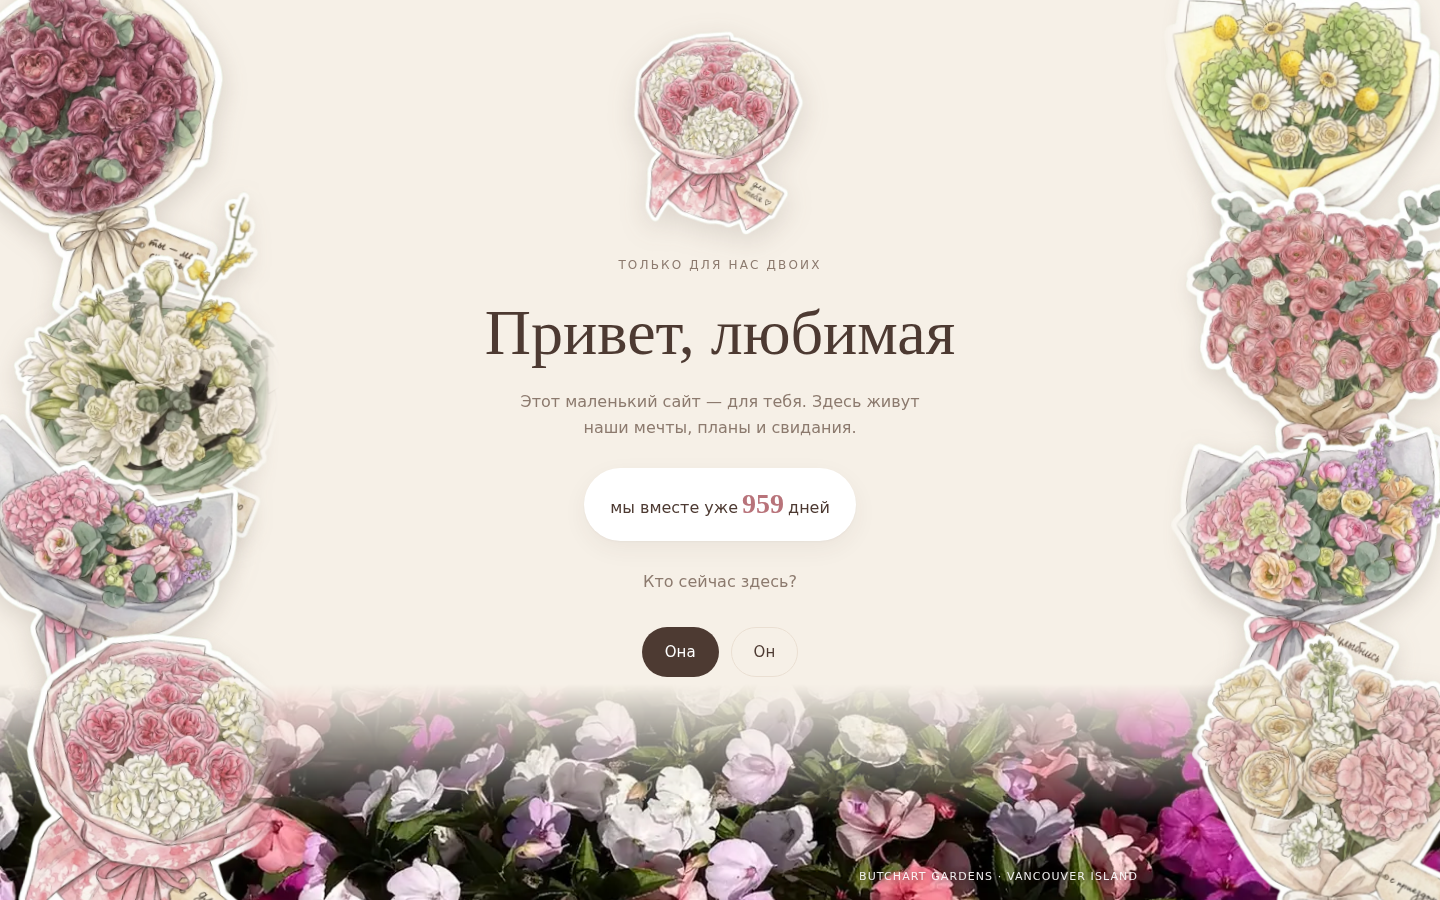
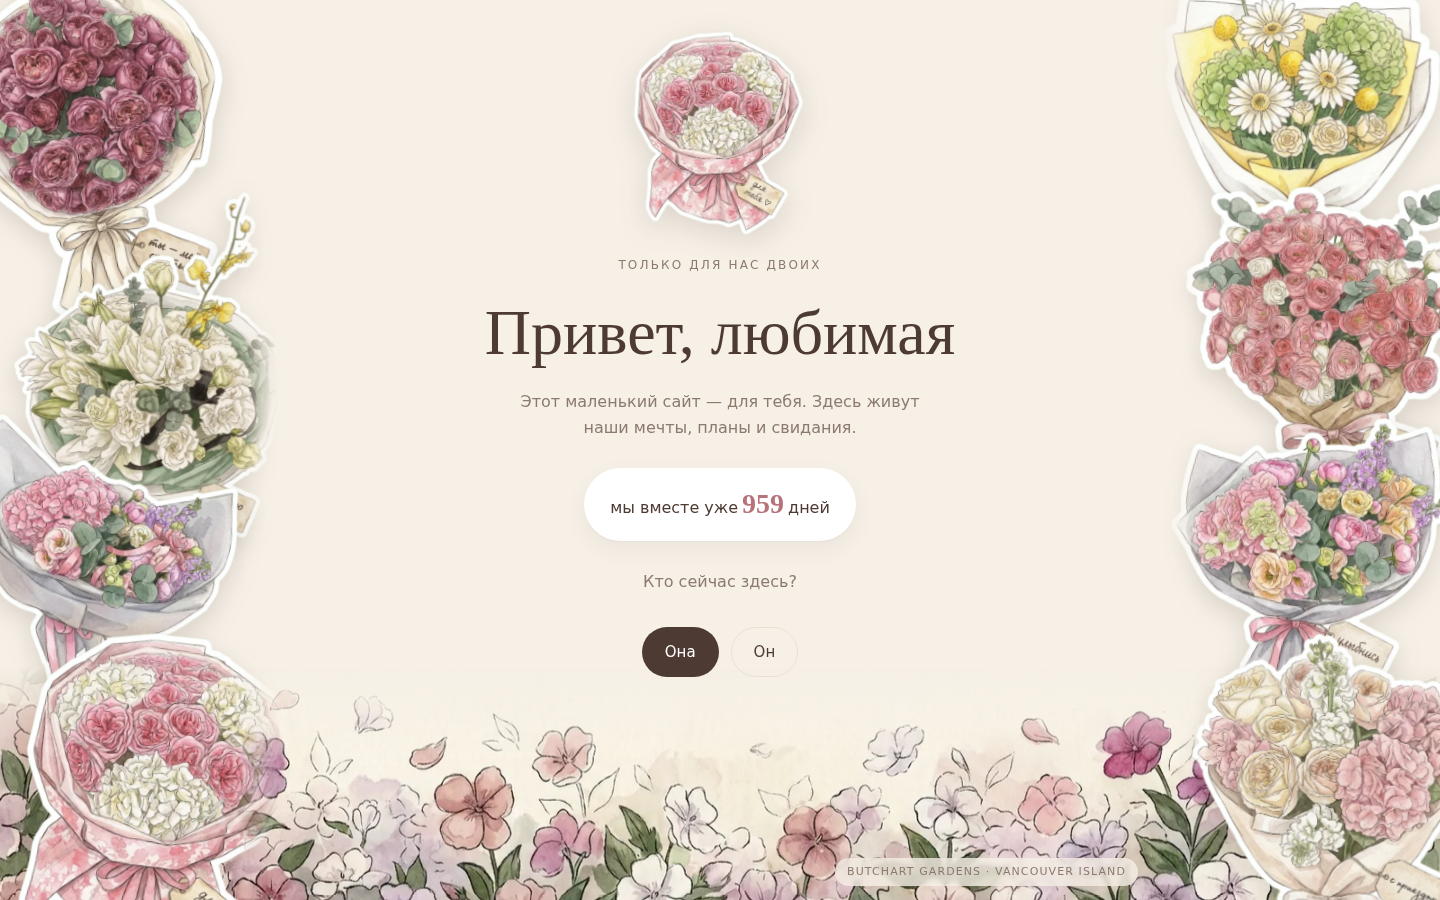
Подпись к клумбе на мягкой подложке
На пёстрой акварели текст терялся и белым, и тёмным.

Claude-Session: https://claude.ai/code/session_014bX3qYy35dvS7ewg6Hjr1n

Changed region(s): [[0.1562, 0.7467, 0.9062, 1.0], [0.0, 0.7778, 0.0312, 1.0], [0.9688, 0.9333, 1.0, 0.9644]]

diff --git a/css/style.css b/css/style.css
@@ -139,7 +139,9 @@ body.is-welcome .garden { opacity: 1; }
 .garden__note {
   position: absolute; right: calc(var(--side-w) + 22px); bottom: 14px;
   font-size: 11px; letter-spacing: .1em; text-transform: uppercase;
-  color: var(--ink-soft); opacity: .85;
+  color: var(--ink-soft);
+  padding: 5px 12px; border-radius: 999px;
+  background: rgba(246, 240, 231, .78); backdrop-filter: blur(2px);
 }
 @media (max-width: 560px) { .garden__note { right: 14px; bottom: 10px; font-size: 10px; } }
 
